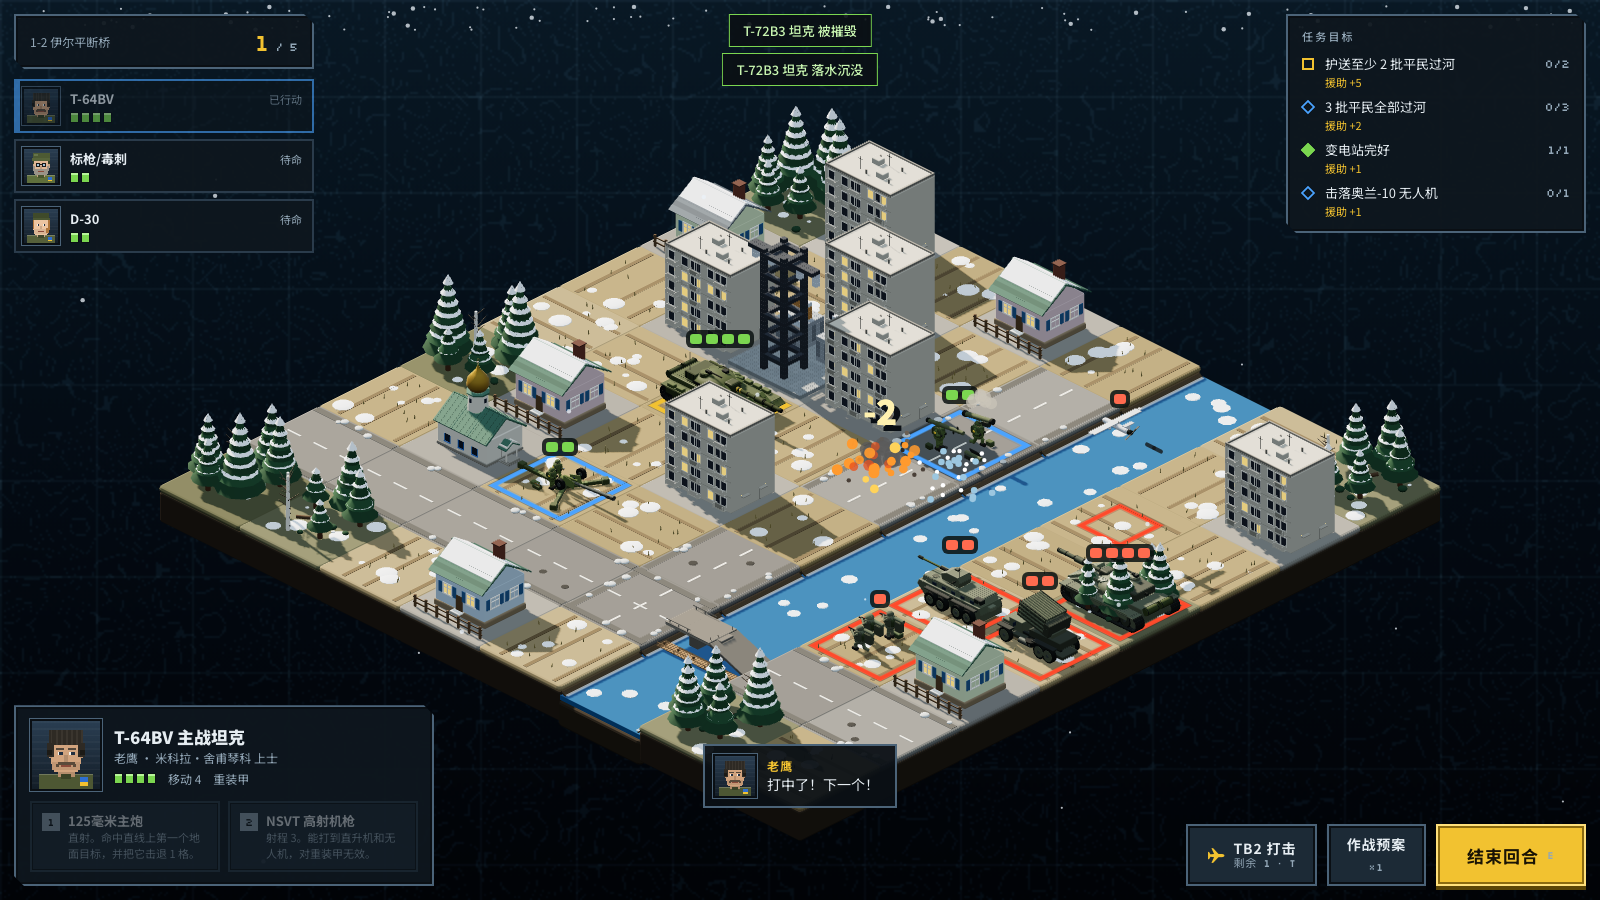
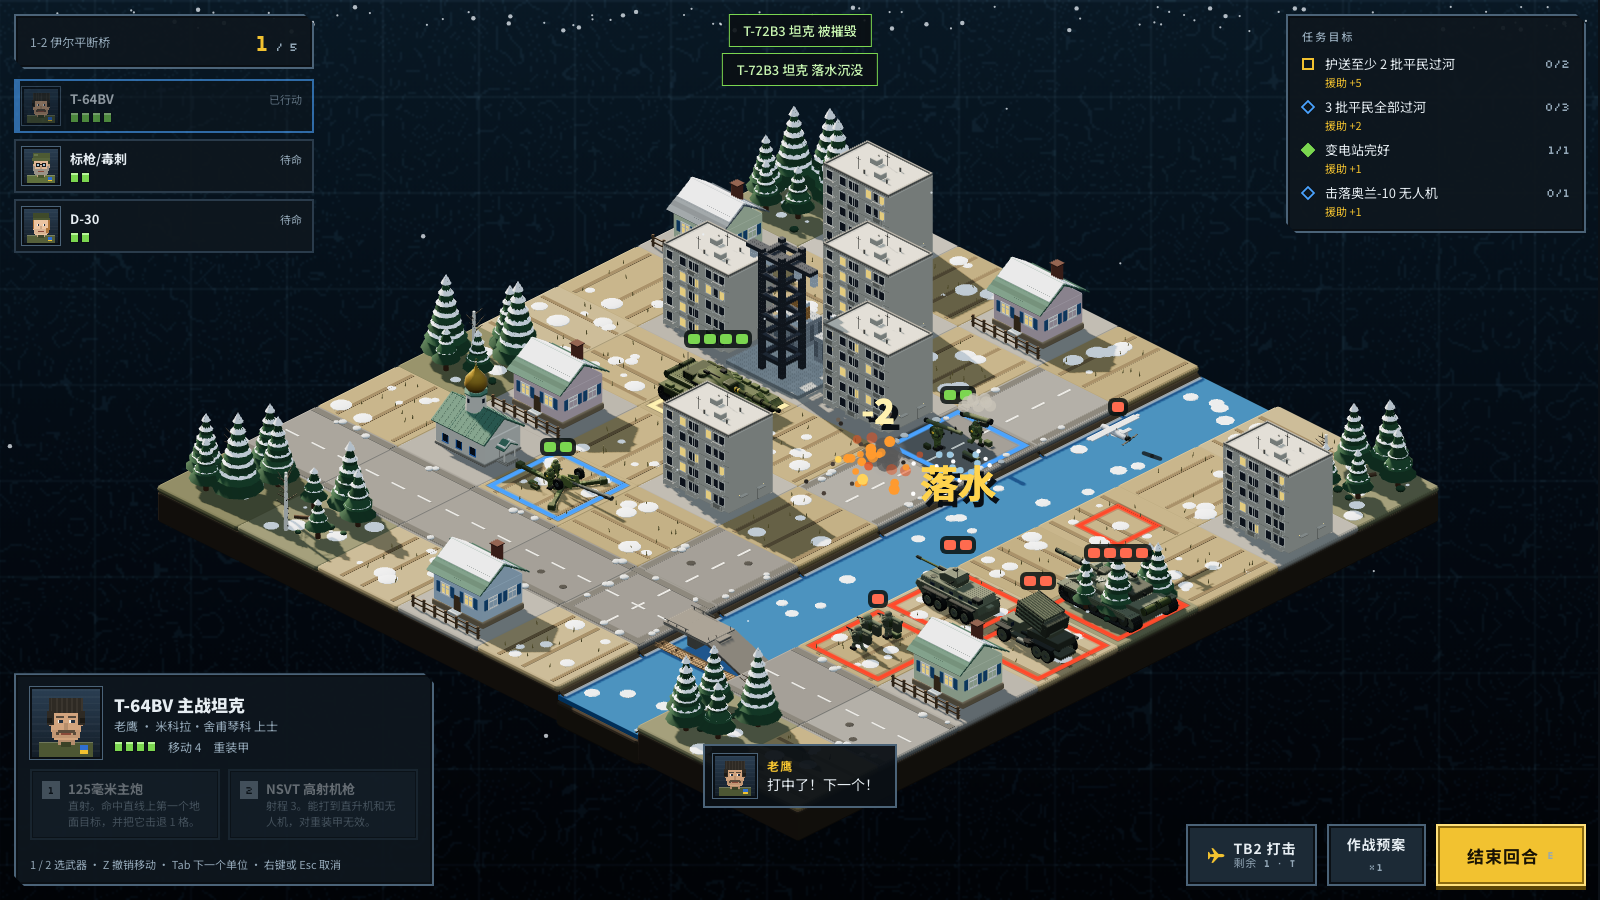
T-38: 第 2 轮修改（重新加回丢失的五项改动、losses 按出击名单、标签居中）

Changed region(s): [[0.0938, 0.1244, 0.9062, 0.84], [0.0, 0.7467, 0.25, 0.9644]]

diff --git a/game/js/battle.js b/game/js/battle.js
@@ -52,7 +52,7 @@ function newBattle(mi, picks) {
   if (!picks) picks = defaultPicks(M);
   B = {
     mission: M, mi, squad: picks.slice(), turn: 1, maxTurn: M.turns, phase: 'deploy', tiles: [], units: [], marks: [], barrage: [],
-    stats: { kills: 0, heli: 0, orlan: 0, naval: 0, armor: 0, cmd: 0, escaped: 0, evac: 0, civLost: 0, bldHit: 0, dmgTaken: 0 },
+    stats: { kills: 0, heli: 0, orlan: 0, naval: 0, armor: 0, cmd: 0, escaped: 0, evac: 0, civLost: 0, bldHit: 0, dmgTaken: 0, drown: 0, bump: 0, friendly: 0, multi: 0 },
     nextId: 1, resetLeft: 1, tb2Left: 1 + CAMP.up.tb2, decals: [], debris: [], civNext: 0, snap: null, said: {}, deadRids: [],
   };
   for (let y = 0; y < 8; y++) {
@@ -282,6 +282,7 @@ async function hitTile(x, y, wid, src) {
     const d = dmgAgainst(wid, x, y);
     if (d > 0) await damageUnit(o, d, src);
     else floatText(x, y, '无效', '#c9d2d8', o && isAir(o) ? U(o).alt : 0);
+    if (src && src.team === 'ru' && o.team === 'ru' && o !== src) { B.stats.friendly++; floatText(x, y, '误伤', '#ffd34d', 0, true); bark('friendly'); }
   } else if (bldAlive(t)) {
     const d = w.dmg.bld || 0;
     if (d > 0) damageBuilding(x, y, d);
@@ -319,6 +320,9 @@ async function killUnit(o, src, how) {
     if (o.type === 'cmd') { B.stats.cmd++; bark('cmd'); }
     if (src && src.team === 'ua' && src.xp !== undefined) src.xp++;
     toast(`${d.name} 被摧毁`, 'good');
+    if (isVehicle(o)) { shake(7); await sleep(110); }
+    else if (d.cls === 'air') { shake(6); await sleep(90); }
+    else shake(3);
     if (!B.said.firstKill) { B.said.firstKill = 1; bark('kill', src); }
   } else if (o.team === 'civ') {
     B.stats.civLost++;
@@ -341,7 +345,11 @@ async function pushUnit(v, dir, src) {
   if (o || bldAlive(t) || (!air && (t.wreck || (t.t === 'f' && isVehicle(v)))) || U(v).mob === 'sea' && !isWater(t)) {
     await animBump(v, dir);
     AUDIO.hit(); shake(2);
-    if (o) { await damageUnit(o, 1, src); if (!v.dead) await damageUnit(v, 1, src); }
+    if (o) {
+      await damageUnit(o, 1, src);
+      if (!v.dead) await damageUnit(v, 1, src);
+      if (o.dead && o.team === 'ru') { B.stats.bump++; floatText(nx, ny, '撞毁', '#ffd34d', 0, true); }
+    }
     else if (bldAlive(t)) { damageBuilding(nx, ny, 1); await damageUnit(v, 1, src); }
     else await damageUnit(v, 1, src);
     return;
@@ -350,6 +358,7 @@ async function pushUnit(v, dir, src) {
   await tween(170, k => { v.rx = lerp(nx - dir[0], nx, k); v.ry = lerp(ny - dir[1], ny, k); }, EASE.out);
   if (isWater(t) && !air && !U(v).amph && U(v).mob !== 'sea') {
     toast(`${U(v).name} 落水沉没`, v.team === 'ru' ? 'good' : 'bad');
+    if (v.team === 'ru') { B.stats.drown++; floatText(nx, ny, '落水', '#ffd34d', 0, true); bark('drown'); }
     await killUnit(v, src, 'drown');
   }
 }
@@ -616,6 +625,11 @@ function endMission(reason) {
   for (const row of B.tiles) for (const t of row) if (bldAlive(t)) res.civilians += BLD[t.t].pop;
   res.civilians += B.stats.evac * 40;
   res.stats = Object.assign({}, B.stats);
+  res.losses = B.squad.filter(rec => {
+    const u = B.units.find(v => v.rid === rec.rid);
+    return !u || u.dead;
+  }).length;
+  res.ops = { drown: B.stats.drown || 0, bump: B.stats.bump || 0, friendly: B.stats.friendly || 0, multi: B.stats.multi || 0 };
   // promotions: compare each surviving unit's rank against its record's rank at battle start
   res.promotions = [];
   for (const rec of B.squad) {

diff --git a/game/js/render.js b/game/js/render.js
@@ -579,7 +579,7 @@ function drawFx(now) {
     g.globalAlpha = f.life < (f.big ? 28 : 20) ? f.life / (f.big ? 28 : 20) : 1;
     g.font = `bold ${f.big ? 19 : 12}px "Noto Sans SC", sans-serif`;
     if (/^[-+0-9]+$/.test(f.text)) { const kk = f.big ? 5 : 3; const w = txtW(f.text, kk); txt(f.text, f.x - w / 2 + 3, y + 3, '#0a0f14', kk); txt(f.text, f.x - w / 2, y, f.color, kk); }
-    else { g.fillStyle = '#0a0f14'; g.fillText(f.text, f.x - 12 + 2, y + 13); g.fillStyle = f.color; g.fillText(f.text, f.x - 12, y + 10); }
+    else { const tw = g.measureText(f.text).width / 2; g.fillStyle = '#0a0f14'; g.fillText(f.text, f.x - tw + 2, y + 13); g.fillStyle = f.color; g.fillText(f.text, f.x - tw, y + 10); }
     g.globalAlpha = 1;
   }
 }

diff --git a/docs/tasks/T-38-战斗反馈与评级.md b/docs/tasks/T-38-战斗反馈与评级.md
@@ -86,6 +86,32 @@
 
 需审查方决定的问题：无。
 
+**第 2 轮（执行方：ZCode）**
+
+审查方对事故的判断完全正确：合入集成分支解决冲突时取了集成分支版本的 `pushUnit`/`endMission`，把我的五项改动丢了，而执行记录与截图却是基于合并前的工作区——记录与代码不符，是我的失误。已按审查方要求在当前集成分支的 `battle.js` 上重新加回全部五项（T-36 的 `pushUnit(v, dir, src)` 基础保留，未覆盖）：
+
+1. `killUnit`：俄军车辆 `shake(7)` + 顿帧 `sleep(110)`、直升机 `shake(6)` + 顿帧 90、步兵 `shake(3)`。
+2. `newBattle` 的 `stats` 补 `drown/bump/friendly/multi` 四个计数（初始 0）。
+3. `pushUnit`：落水的俄军 `drown++` + 金色大号 `落水` 标签；撞击致死的俄军 `bump++` + `撞毁` 标签。
+4. `hitTile`：俄军攻击命中另一俄军 → `friendly++` + `误伤` 标签。
+5. `endMission`：`res.losses` 按审查方定义改为 **本场出击名单 `B.squad` 中未活着返回的单位数**（此前分支上的 deadRids 版本已随合并丢失，这次按新定义实现）。
+
+顺手项：大号中文标签的水平居中改为 `g.measureText(f.text).width / 2`，"一石二鸟"四字不再偏右。
+
+提交前已按审查方要求用 `git diff origin/claude/inspiring-johnson-7m5bvj -- game/js/battle.js` 逐项核对，五项与 `res.losses`/`res.ops` 全部在 diff 中。
+
+自测：
+- `node tools/check.js`：✓ 语法（20 个文件）。
+- `node tools/playtest.js /tmp/pt-T-38r3`：`ERRORS none`，退出码 0。
+- `node tools/shot3d.js /tmp/s3-T-38r3`：`SHOT3D OK`，退出码 0。
+- 真实驱动验证：1-2 里 T-64 主炮命中 (4,3) 的 T-72B3（3 伤剩 1 血）并将其推进 (5,3) 水格——`B.stats.drown = 1`、T-72 `dead = true`、`落水` 金色大号标签在河面清晰可见（`drown.png` 重拍）。`debrief.png` 重拍：评级 C、五格统计（精彩操作 3 = 落水 2 · 误伤 1，其中 2/1 为演示注入）、`res.losses = 0`。
+
+执行方记录：以后合并冲突解决后，先 `git diff` 确认自己的改动完整存活，再写执行记录、再提交。
+
+需审查方决定的问题：无。
+
+## 审查意见（审查方写）
+
 ## 审查意见（审查方写）
 
 ### 第 1 轮
